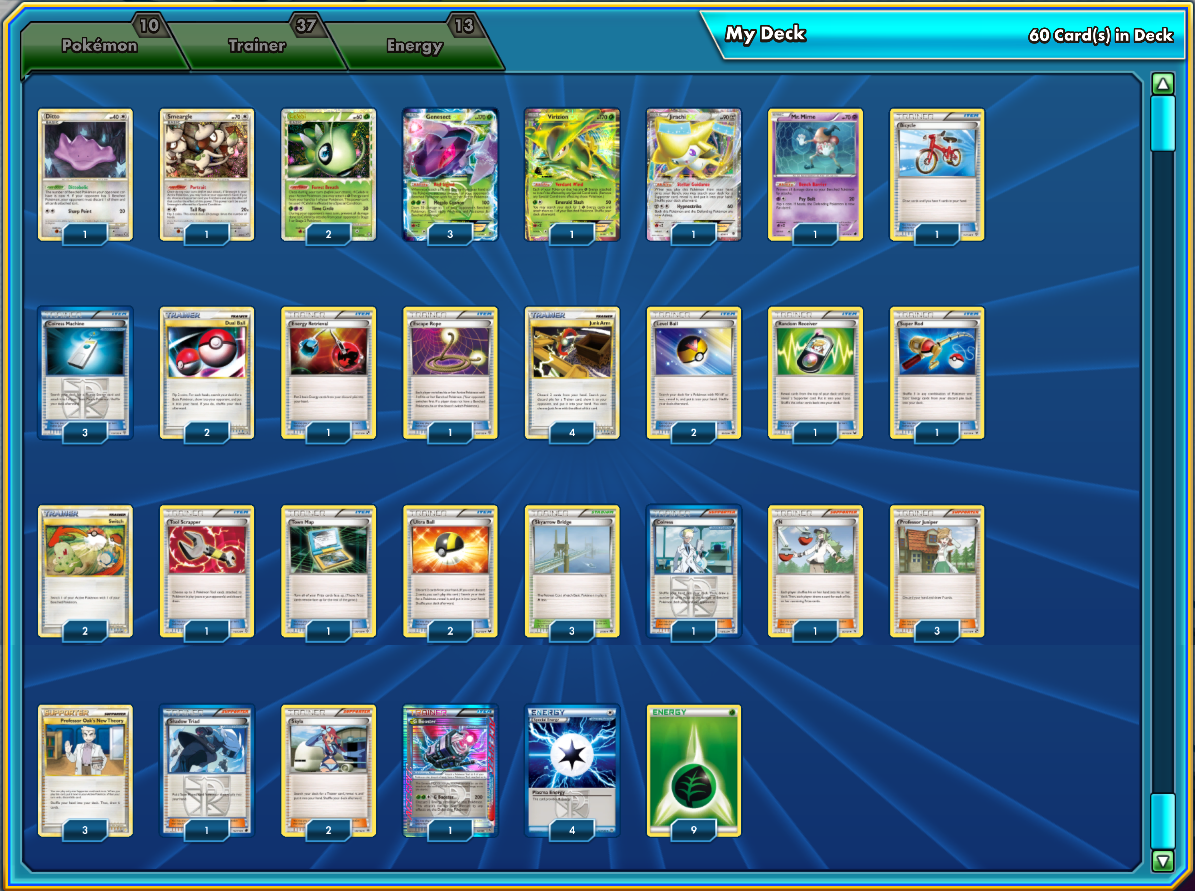
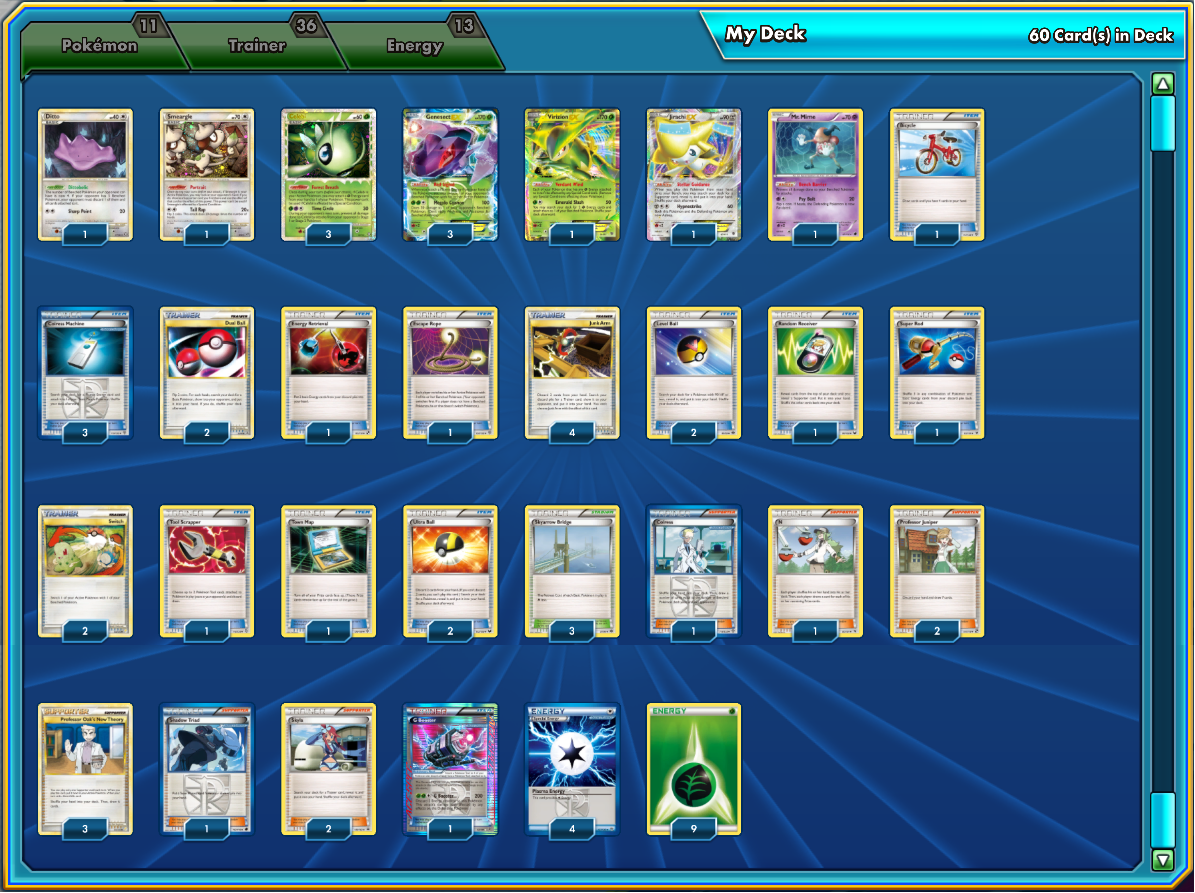
Site updated: 2019-10-06 15:32:49

diff --git a/2019/09/15/genesect/index.html b/2019/09/15/genesect/index.html
@@ -118,7 +118,7 @@
 <meta property="og:image" content="https://pkmncards.com/wp-content/uploads/g-booster-plasma-blast-plb-92-ptcgo-1.png">
 <meta property="og:image" content="https://pkmncards.com/wp-content/uploads/plasma-energy-plasma-storm-pls-127-ptcgo-1.png">
 <meta property="og:image" content="https://pkmncards.com/wp-content/uploads/grass-energy-heartgold-soulsilver-hs-115-ptcgo-1.png">
-<meta property="og:updated_time" content="2019-09-30T14:20:15.808Z">
+<meta property="og:updated_time" content="2019-10-06T07:31:49.362Z">
 <meta name="twitter:card" content="summary">
 <meta name="twitter:title" content="PTCGO-Legacy卡组介绍——雪虫">
 <meta name="twitter:description" content="卡组预览">
@@ -402,7 +402,7 @@
 <p><img src="https://pkmncards.com/wp-content/uploads/smeargle-undaunted-ud-8-ptcgo-1.png" width="35%" height="35%"><br>运用图图犬的特殊能力加速滤牌，有天箭桥可在使用特殊能力后退下换成盖诺赛克特输出。</p>
 </blockquote>
 <h3 id="Celebi"><a href="#Celebi" class="headerlink" title="Celebi"></a>Celebi</h3><blockquote>
-<p><img src="https://pkmncards.com/wp-content/uploads/celebi-prime-triumphant-tm-92-ptcgo-1.png" width="35%" height="35%"><br>第一加速手，和图图犬一样可天箭桥撤退。</p>
+<p><img src="https://pkmncards.com/wp-content/uploads/celebi-prime-triumphant-tm-92-ptcgo-1.png" width="35%" height="35%"><br>第一加速手，多次换位可1回合使盖诺赛克特EX快速输出，和图图犬一样可天箭桥撤退。</p>
 </blockquote>
 <h3 id="Genesect-EX"><a href="#Genesect-EX" class="headerlink" title="Genesect-EX"></a>Genesect-EX</h3><blockquote>
 <p><img src="https://pkmncards.com/wp-content/uploads/genesect-ex-plasma-blast-plb-11-ptcgo-1.png" width="35%" height="35%"><br>主力输出，集抓人和攻击于一体，装备大炮无人能挡。</p>
@@ -485,7 +485,7 @@
 <h3 id="Grass-Energy"><a href="#Grass-Energy" class="headerlink" title="Grass Energy"></a>Grass Energy</h3><blockquote>
 <p><img src="https://pkmncards.com/wp-content/uploads/grass-energy-heartgold-soulsilver-hs-115-ptcgo-1.png" width="35%" height="35%"><br>9基本草能量，对应3盖诺赛克特EX*3.</p>
 </blockquote>
-<h1 id="卡组代码"><a href="#卡组代码" class="headerlink" title="卡组代码"></a>卡组代码</h1><figure class="highlight plain"><table><tr><td class="gutter"><pre><span class="line">1</span><br><span class="line">2</span><br><span class="line">3</span><br><span class="line">4</span><br><span class="line">5</span><br><span class="line">6</span><br><span class="line">7</span><br><span class="line">8</span><br><span class="line">9</span><br><span class="line">10</span><br><span class="line">11</span><br><span class="line">12</span><br><span class="line">13</span><br><span class="line">14</span><br><span class="line">15</span><br><span class="line">16</span><br><span class="line">17</span><br><span class="line">18</span><br><span class="line">19</span><br><span class="line">20</span><br><span class="line">21</span><br><span class="line">22</span><br><span class="line">23</span><br><span class="line">24</span><br><span class="line">25</span><br><span class="line">26</span><br><span class="line">27</span><br><span class="line">28</span><br><span class="line">29</span><br><span class="line">30</span><br><span class="line">31</span><br><span class="line">32</span><br><span class="line">33</span><br><span class="line">34</span><br><span class="line">35</span><br><span class="line">36</span><br><span class="line">37</span><br><span class="line">38</span><br><span class="line">39</span><br><span class="line">40</span><br><span class="line">41</span><br><span class="line">42</span><br><span class="line">43</span><br><span class="line">44</span><br></pre></td><td class="code"><pre><span class="line">****** Pokémon Trading Card Game Deck List ******</span><br><span class="line"></span><br><span class="line">##Pokémon - 10</span><br><span class="line"></span><br><span class="line">* 1 Ditto TM 17</span><br><span class="line">* 1 Smeargle UD 8</span><br><span class="line">* 2 Celebi TM 92</span><br><span class="line">* 3 Genesect-EX PLB 11</span><br><span class="line">* 1 Virizion-EX PLB 9</span><br><span class="line">* 1 Jirachi-EX PLB 60</span><br><span class="line">* 1 Mr. Mime PLF 47</span><br><span class="line"></span><br><span class="line">##Trainer Cards - 37</span><br><span class="line"></span><br><span class="line">* 2 Switch HS 102</span><br><span class="line">* 1 G Booster PLB 92</span><br><span class="line">* 1 Bicycle PLS 117</span><br><span class="line">* 3 Skyarrow Bridge NXD 91</span><br><span class="line">* 1 Shadow Triad PLF 102</span><br><span class="line">* 2 Ultra Ball DEX 102</span><br><span class="line">* 3 Colress Machine PLS 119</span><br><span class="line">* 3 Professor Oak&apos;s New Theory HS 101</span><br><span class="line">* 1 Super Rod NVI 95</span><br><span class="line">* 1 Escape Rope PLS 120</span><br><span class="line">* 2 Skyla BKT 148</span><br><span class="line">* 1 N NVI 92</span><br><span class="line">* 1 Colress PLS 118</span><br><span class="line">* 1 Town Map BCR 136</span><br><span class="line">* 2 Dual Ball UL 72</span><br><span class="line">* 1 Random Receiver DEX 99</span><br><span class="line">* 3 Professor Juniper BLW 101</span><br><span class="line">* 1 Tool Scrapper DRX 116</span><br><span class="line">* 2 Level Ball NXD 89</span><br><span class="line">* 4 Junk Arm TM 87</span><br><span class="line">* 1 Energy Retrieval BLW 92</span><br><span class="line"></span><br><span class="line">##Energy - 13</span><br><span class="line"></span><br><span class="line">* 9 Grass Energy Energy 1</span><br><span class="line">* 4 Plasma Energy PLS 127</span><br><span class="line"></span><br><span class="line">Total Cards - 60</span><br><span class="line"></span><br><span class="line">****** Deck List Generated by the Pokémon TCG Online www.pokemon.com/TCGO ******</span><br></pre></td></tr></table></figure>
+<h1 id="卡组代码"><a href="#卡组代码" class="headerlink" title="卡组代码"></a>卡组代码</h1><figure class="highlight plain"><table><tr><td class="gutter"><pre><span class="line">1</span><br><span class="line">2</span><br><span class="line">3</span><br><span class="line">4</span><br><span class="line">5</span><br><span class="line">6</span><br><span class="line">7</span><br><span class="line">8</span><br><span class="line">9</span><br><span class="line">10</span><br><span class="line">11</span><br><span class="line">12</span><br><span class="line">13</span><br><span class="line">14</span><br><span class="line">15</span><br><span class="line">16</span><br><span class="line">17</span><br><span class="line">18</span><br><span class="line">19</span><br><span class="line">20</span><br><span class="line">21</span><br><span class="line">22</span><br><span class="line">23</span><br><span class="line">24</span><br><span class="line">25</span><br><span class="line">26</span><br><span class="line">27</span><br><span class="line">28</span><br><span class="line">29</span><br><span class="line">30</span><br><span class="line">31</span><br><span class="line">32</span><br><span class="line">33</span><br><span class="line">34</span><br><span class="line">35</span><br><span class="line">36</span><br><span class="line">37</span><br><span class="line">38</span><br><span class="line">39</span><br><span class="line">40</span><br><span class="line">41</span><br><span class="line">42</span><br><span class="line">43</span><br><span class="line">44</span><br></pre></td><td class="code"><pre><span class="line">****** Pokémon Trading Card Game Deck List ******</span><br><span class="line"></span><br><span class="line">##Pokémon - 11</span><br><span class="line"></span><br><span class="line">* 1 Ditto TM 17</span><br><span class="line">* 1 Smeargle UD 8</span><br><span class="line">* 3 Celebi TM 92</span><br><span class="line">* 3 Genesect-EX PLB 11</span><br><span class="line">* 1 Virizion-EX PLB 9</span><br><span class="line">* 1 Jirachi-EX PLB 60</span><br><span class="line">* 1 Mr. Mime PLF 47</span><br><span class="line"></span><br><span class="line">##Trainer Cards - 36</span><br><span class="line"></span><br><span class="line">* 2 Switch HS 102</span><br><span class="line">* 1 G Booster PLB 92</span><br><span class="line">* 1 Bicycle PLS 117</span><br><span class="line">* 3 Skyarrow Bridge NXD 91</span><br><span class="line">* 1 Shadow Triad PLF 102</span><br><span class="line">* 2 Ultra Ball DEX 102</span><br><span class="line">* 3 Colress Machine PLS 119</span><br><span class="line">* 3 Professor Oak&apos;s New Theory HS 101</span><br><span class="line">* 1 Super Rod NVI 95</span><br><span class="line">* 1 Escape Rope PLS 120</span><br><span class="line">* 2 Skyla BKT 148</span><br><span class="line">* 1 N NVI 92</span><br><span class="line">* 1 Colress PLS 118</span><br><span class="line">* 1 Town Map BCR 136</span><br><span class="line">* 2 Dual Ball UL 72</span><br><span class="line">* 1 Random Receiver DEX 99</span><br><span class="line">* 2 Professor Juniper BLW 101</span><br><span class="line">* 1 Tool Scrapper DRX 116</span><br><span class="line">* 2 Level Ball NXD 89</span><br><span class="line">* 4 Junk Arm TM 87</span><br><span class="line">* 1 Energy Retrieval BLW 92</span><br><span class="line"></span><br><span class="line">##Energy - 13</span><br><span class="line"></span><br><span class="line">* 9 Grass Energy Energy 1</span><br><span class="line">* 4 Plasma Energy PLS 127</span><br><span class="line"></span><br><span class="line">Total Cards - 60</span><br><span class="line"></span><br><span class="line">****** Deck List Generated by the Pokémon TCG Online www.pokemon.com/TCGO ******</span><br></pre></td></tr></table></figure>
       
     </div>
     

diff --git a/2018/03/10/stl/index.html b/2018/03/10/stl/index.html
@@ -87,7 +87,7 @@
 <meta property="og:site_name" content="真新镇">
 <meta property="og:description" content="STL全称Standard Template Library，是C++中的标准模板库；">
 <meta property="og:locale" content="zh-Hans">
-<meta property="og:updated_time" content="2018-10-11T13:53:13.713Z">
+<meta property="og:updated_time" content="2019-10-06T01:23:17.416Z">
 <meta name="twitter:card" content="summary">
 <meta name="twitter:title" content="STL基本操作">
 <meta name="twitter:description" content="STL全称Standard Template Library，是C++中的标准模板库；">
@@ -489,7 +489,7 @@
 <td>√</td>
 </tr>
 <tr>
-<td>remove</td>
+<td>reverse</td>
 <td>×</td>
 <td>×</td>
 <td>√</td>

diff --git a/css/main.css b/css/main.css
@@ -1822,7 +1822,7 @@ pre .javascript .function {
   width: 4px;
   height: 4px;
   border-radius: 50%;
-  background: #e90f16;
+  background: #9adbfa;
 }
 .links-of-blogroll {
   font-size: 13px;
